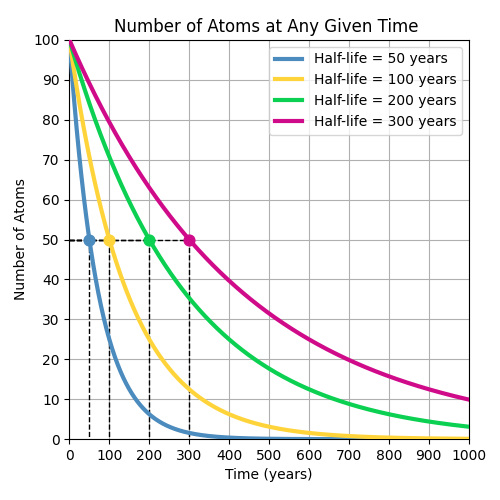
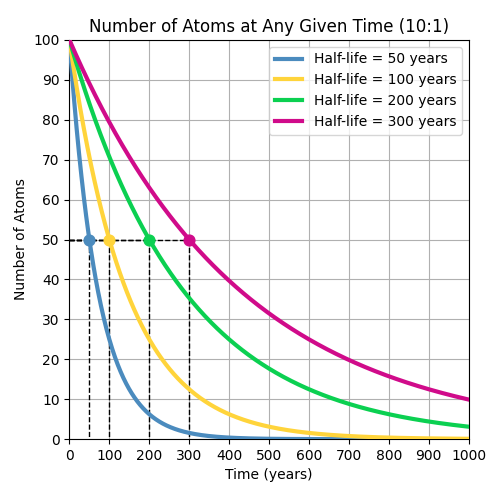
Allow the tittle to tell the scaling so that miscalculations can be avoided

Changed region(s): [[0.18, 0.03, 0.9, 0.09]]

diff --git a/AtomsAtGivenTime.py b/AtomsAtGivenTime.py
@@ -1,4 +1,5 @@
-import numpy as np                
+import numpy as np    
+from fractions import Fraction         
 import matplotlib.pyplot as plt   
 
 
@@ -34,6 +35,7 @@ def drawPoint(xCoord, yCoord, pColor, pSize):
     # ------------------------------------------------------------
     plt.scatter(xCoord, yCoord, pSize*20, color = pColor, zorder = 5)
 
+
     # Plot dash-lines that connect the point above to both axes
     # ---------------------------------------------------------
     if pSize - 2 != 0:
@@ -46,6 +48,7 @@ def drawPoint(xCoord, yCoord, pColor, pSize):
         plt.plot([xMin, xCoord],[yCoord, yCoord], color = '#000000', marker = 'none', linestyle = '--', linewidth = 1, zorder = 3)
         # Vertical line
         plt.plot([xCoord, xCoord], [yCoord, yMin], color = '#000000', marker = 'none', linestyle = '--',  linewidth = 1, zorder = 3)
+
 
 # Customizations
 # --------------
@@ -65,6 +68,7 @@ yTicksFrequency = yMax/10
 # Figure Size
 figWidth = 5
 figHeight = 5
+
 
 # Set Values
 # ----------
@@ -120,9 +124,10 @@ drawLine(300, INITIAL_ATOMS, '#d00b8a', 'none', '-', 3, "Half-life = 300 years")
 # drawPoint Format: drawPoint(xCoord, yCoord, pColor, pSize)
 drawPoint(300, INITIAL_ATOMS/2, '#d00b8a', 3)
 
+
 # Making the Graph More Readable by Adding Labels
 # -----------------------------------------------
-plt.title('Number of Atoms at Any Given Time ')
+plt.title('Number of Atoms at Any Given Time (' + str(Fraction(scale).numerator) + ':' + str(Fraction(scale).denominator) + ')')
 plt.xlabel('Time (years)')
 plt.ylabel('Number of Atoms')
 plt.legend()
